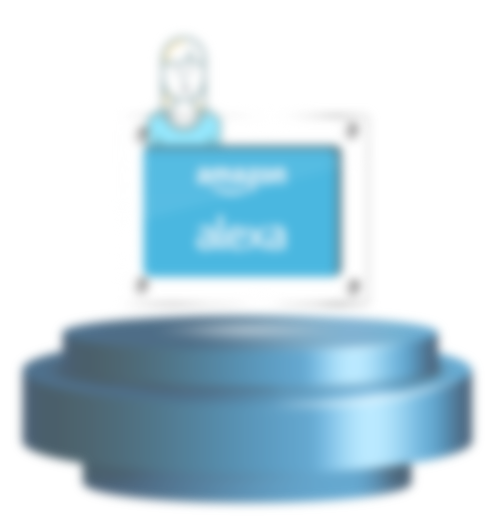
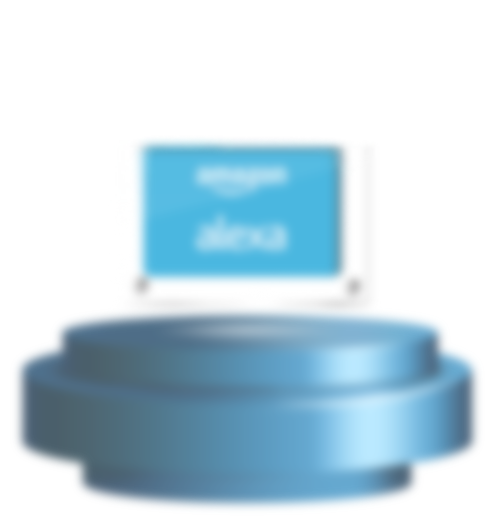
implement about, settings, metrics; update graphics

Changed region(s): [[0.2705, 0.0618, 0.4509, 0.3089], [0.6914, 0.2162, 0.7214, 0.278]]

diff --git a/content/MetricsView.qml b/content/MetricsView.qml
@@ -1,0 +1,182 @@
+import QtQuick 2.0
+//import QtQuick.Controls 2.1
+//import QtQuick.Dialogs
+
+Item {
+    id: root
+    
+    property string text
+    property bool isShown: false
+
+    //width: metricsBG.width
+    //height: metricsBG.width
+    anchors.fill: parent
+    anchors.verticalCenter: parent.verticalCenter
+    anchors.horizontalCenter: parent.horizontalCenter
+    visible: false
+    
+    function show() {
+        mainView.scheduleUpdate();
+        root.isShown = true;
+	visible = true;
+//        showAnimation.restart();
+    }
+    function hide() {
+	visible = false;
+//        hideAnimation.restart();
+    }
+
+    Rectangle {
+	id: fon
+	anchors.fill: parent
+	color: "black"
+	opacity: 0.5
+
+	MouseArea {
+            anchors.fill: parent
+            onClicked: {
+            }
+	}
+    }
+    
+    Image {
+        id: metricsBG
+	source: "images/Metrics/Metrics.png"
+	anchors.verticalCenter: parent.verticalCenter
+	anchors.horizontalCenter: parent.horizontalCenter
+
+	Text {
+	    id: fps
+            horizontalAlignment: Text.AlignHCenter
+            verticalAlignment: Text.AlignVCenter
+	    x: 243
+	    y: 283
+	    width: 175
+	    height: 50
+	    text: "30"
+	    color: "black"
+	    font.family: "Arial"
+            font.pixelSize: 34
+	}
+
+	Text {
+	    id: temp
+            horizontalAlignment: Text.AlignHCenter
+            verticalAlignment: Text.AlignVCenter
+	    x: 243
+	    y: 356
+	    width: 175
+	    height: 50
+	    text: "59"
+	    color: "black"
+	    font.family: "Arial"
+            font.pixelSize: 34
+	}
+
+	Text {
+	    id: cpu0
+            horizontalAlignment: Text.AlignHCenter
+            verticalAlignment: Text.AlignVCenter
+	    x: 664
+	    y: 278
+	    width: 130
+	    height: 50
+	    text: "100%"
+	    color: "black"
+	    font.family: "Arial"
+            font.pixelSize: 34
+	}
+
+	Text {
+	    id: cpu1
+            horizontalAlignment: Text.AlignHCenter
+            verticalAlignment: Text.AlignVCenter
+	    x: 664
+	    y: 358
+	    width: 130
+	    height: 50
+	    text: "2%"
+	    color: "black"
+	    font.family: "Arial"
+            font.pixelSize: 34
+	}
+
+	Text {
+	    id: cpu2
+            horizontalAlignment: Text.AlignHCenter
+            verticalAlignment: Text.AlignVCenter
+	    x: 664
+	    y: 440
+	    width: 130
+	    height: 50
+	    text: "100%"
+	    color: "black"
+	    font.family: "Arial"
+            font.pixelSize: 34
+	}
+
+	Text {
+	    id: cpu3
+            horizontalAlignment: Text.AlignHCenter
+            verticalAlignment: Text.AlignVCenter
+	    x: 664
+	    y: 520
+	    width: 130
+	    height: 50
+	    text: "100%"
+	    color: "black"
+	    font.family: "Arial"
+            font.pixelSize: 34
+	}
+    }
+
+    Image {
+        id: closeImg
+	source: "images/errwin/ok1.png"
+	anchors.bottom: metricsBG.bottom
+	anchors.bottomMargin: 80
+	anchors.horizontalCenter: metricsBG.horizontalCenter
+
+	MouseArea {
+            anchors.fill: parent
+	    onPressed: {
+		closeImg.source = "images/errwin/ok2.png"
+	    }
+	    onReleased: {
+		closeImg.source = "images/errwin/ok1.png"
+	    }
+            onClicked: {
+		root.hide()
+            }
+	}
+    }
+
+    Timer {
+        interval: 1000; running: metricsView.isShown; repeat: true
+        onTriggered: {
+	    fps.text = Math.floor(35 + 10 * Math.random())
+	    temp.text = Math.floor(59 + 10 * Math.random())
+	    cpu0.text = Math.floor(100 * Math.random()) + "%"
+	    cpu1.text = Math.floor(100 * Math.random()) + "%"
+	    cpu2.text = Math.floor(100 * Math.random()) + "%"
+	    cpu3.text = Math.floor(100 * Math.random()) + "%"
+	}
+    }
+
+    Text {
+        id: textItem
+	text: root.text
+	anchors.left: errIcon.right
+	anchors.leftMargin: 30
+	anchors.right: metricsBG.right
+	anchors.rightMargin: 80
+	anchors.top: metricsBG.top
+	anchors.topMargin: 110
+        color: "white"
+        //style: Text.Raised
+        //styleColor: "#000000"
+	font.family: "Arial"
+        font.pixelSize: settings.fontS
+        wrapMode: Text.WordWrap
+    }
+}

diff --git a/content/DelegateItem.qml b/content/DelegateItem.qml
@@ -31,8 +31,14 @@ Item {
         anchors.fill: parent
         onClicked: {
             if (isSelected) {
-                //errView.text = "Unable to play live camera feed due to the following error: Camera not connected or unrecognized by the system"
-                video.show();
+		if (model.name == "VIDEO")
+                    video.show()
+		else if (model.name == "METRICS")
+		    metricsView.show()
+		else {
+                    errView.text = "Unable to play live camera feed due to the following error: Camera not connected or unrecognized by the system"
+		    errView.show()
+		}
             } else {
                 listView.currentIndex = index;
                 if (settings.showShootingStarParticles) shootingStarBurst.burst(50);
@@ -49,12 +55,6 @@ Item {
     Image {
         id: imageItem
         source: "images/" + (isSelected ? model.image : model.image_bg)
-        visible: true
-    }
-
-    AnimatedImage {
-        id: aniItem
-        source: "images/" + model.gif
         visible: true
     }
 
@@ -78,10 +78,10 @@ Item {
         //anchors.top: parent.top
 	height: parent.height * 0.8
 	width: parent.width * 0.9
-
+/*
 	Text {
             id: titleText
-	    visible: root1.isSelected
+	    visible: false //root1.isSelected
             anchors.verticalCenter: parent.verticalCenter
             anchors.verticalCenterOffset: +150
             anchors.horizontalCenter: parent.horizontalCenter
@@ -95,20 +95,20 @@ Item {
             //font.pixelSize: settings.fontL
 	    font.family: "Calibri" //"Arial"
             font.pixelSize: 60
-	}
+	}*/
     }
-
+/*
     ShaderEffectSource {
         id: s2
         sourceItem: aniItem
         hideSource: settings.showLighting
-        visible: root1.isSelected
+        visible: false //root1.isSelected
     	anchors.verticalCenter: parent.verticalCenter
         //anchors.top: parent.top
 	height: parent.height * 0.8
 	width: parent.width * 0.9
     }
-
+*/
 /*
     FastBlur {
         anchors.fill: s1
@@ -118,10 +118,22 @@ Item {
 //        visible: root.blurAmount
     }
 */
+
+    AnimatedImage {
+        id: aniItem
+        source: "images/" + model.gif
+        visible: root1.isSelected
+	cache: false
+    	anchors.verticalCenter: parent.verticalCenter
+        //anchors.top: parent.top
+	height: parent.height * 0.8
+	width: parent.width * 0.9
+    }
+
     ShaderEffect {
         anchors.fill: imageItem
         property variant src: s1
-        property variant srcNmap: s2//coverNmapSource
+//        property variant srcNmap: s2//coverNmapSource
         property variant srcBG: s0//coverNmapSource
         property real widthPortition: mainView.width/imageItem.width
         property real heightPortition: mainView.height/imageItem.height

diff --git a/content/AboutView.qml b/content/AboutView.qml
@@ -8,8 +8,8 @@ Item {
     property string text
     property bool isShown: false
 
-    //width: settingsBG.width
-    //height: settingsBG.width
+    //width: aboutBG.width
+    //height: aboutBG.width
     anchors.fill: parent
     anchors.verticalCenter: parent.verticalCenter
     anchors.horizontalCenter: parent.horizontalCenter
@@ -40,8 +40,8 @@ Item {
     }
     
     Image {
-        id: settingsBG
-	source: "images/UI Settings/ui.png"
+        id: aboutBG
+	source: "images/About/about.png"
 	anchors.verticalCenter: parent.verticalCenter
 	anchors.horizontalCenter: parent.horizontalCenter
     }
@@ -49,9 +49,9 @@ Item {
     Image {
         id: closeImg
 	source: "images/errwin/ok1.png"
-	anchors.bottom: settingsBG.bottom
+	anchors.bottom: aboutBG.bottom
 	anchors.bottomMargin: 80
-	anchors.horizontalCenter: settingsBG.horizontalCenter
+	anchors.horizontalCenter: aboutBG.horizontalCenter
 
 	MouseArea {
             anchors.fill: parent
@@ -72,9 +72,9 @@ Item {
 	text: root.text
 	anchors.left: errIcon.right
 	anchors.leftMargin: 30
-	anchors.right: settingsBG.right
+	anchors.right: aboutBG.right
 	anchors.rightMargin: 80
-	anchors.top: settingsBG.top
+	anchors.top: aboutBG.top
 	anchors.topMargin: 110
         color: "white"
         //style: Text.Raised

diff --git a/content/MainView.qml b/content/MainView.qml
@@ -86,8 +86,8 @@ Item {
 		     infoBtn.source = "images/mainscreen/info_1.png"
 		 }
 		 onClicked: {
-    		     errView.text = "Sorry, this demo is not yet implemented. Please check back later!"
-		     errView.show()
+    		     aboutView.text = ""
+		     aboutView.show()
 		 }
 	     }
 	}
@@ -109,8 +109,8 @@ Item {
 		     settingsBtn.source = "images/mainscreen/settings_1.png"
 		 }
 		 onClicked: {
-    		     errView.text = "Sorry, this demo is not yet implemented. Please check back later!"
-		     errView.show()
+    		     settingsView.text = ""
+		     settingsView.show()
 		 }
 	     }
 	}

diff --git a/content/MoviesModel.qml b/content/MoviesModel.qml
@@ -41,8 +41,8 @@ ListModel {
     }
     ListElement {
         name: "ALEXA"
-        image: "mainscreen/Alexa.png"
+        image: "mainscreen/AmazonAlexa.png"
         image_bg: "mainscreen/Alexa_2.png"
-	gif: "mainscreen/Alexa.gif"
+	gif: "mainscreen/AmazonAlexa.gif"
     }
 }

diff --git a/Qt5_CinematicExperience.qml b/Qt5_CinematicExperience.qml
@@ -51,6 +51,19 @@ Item {
     VideoPlay {
 	id: video
     }
+
+    AboutView {
+	id: aboutView
+    }
+
+    SettingsView {
+	id: settingsView
+    }
+
+    MetricsView {
+	id: metricsView
+    }
+
 /*
     FpsItem {
         anchors.top: parent.top
